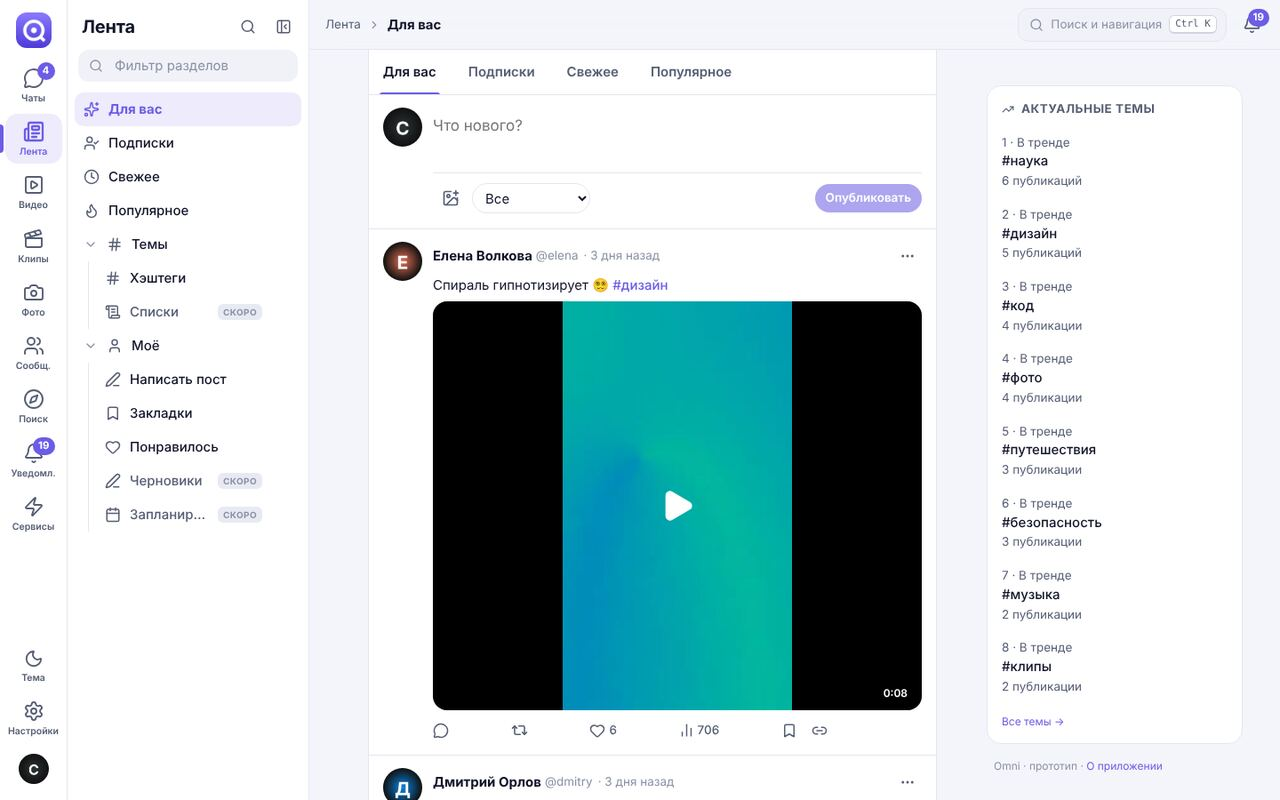
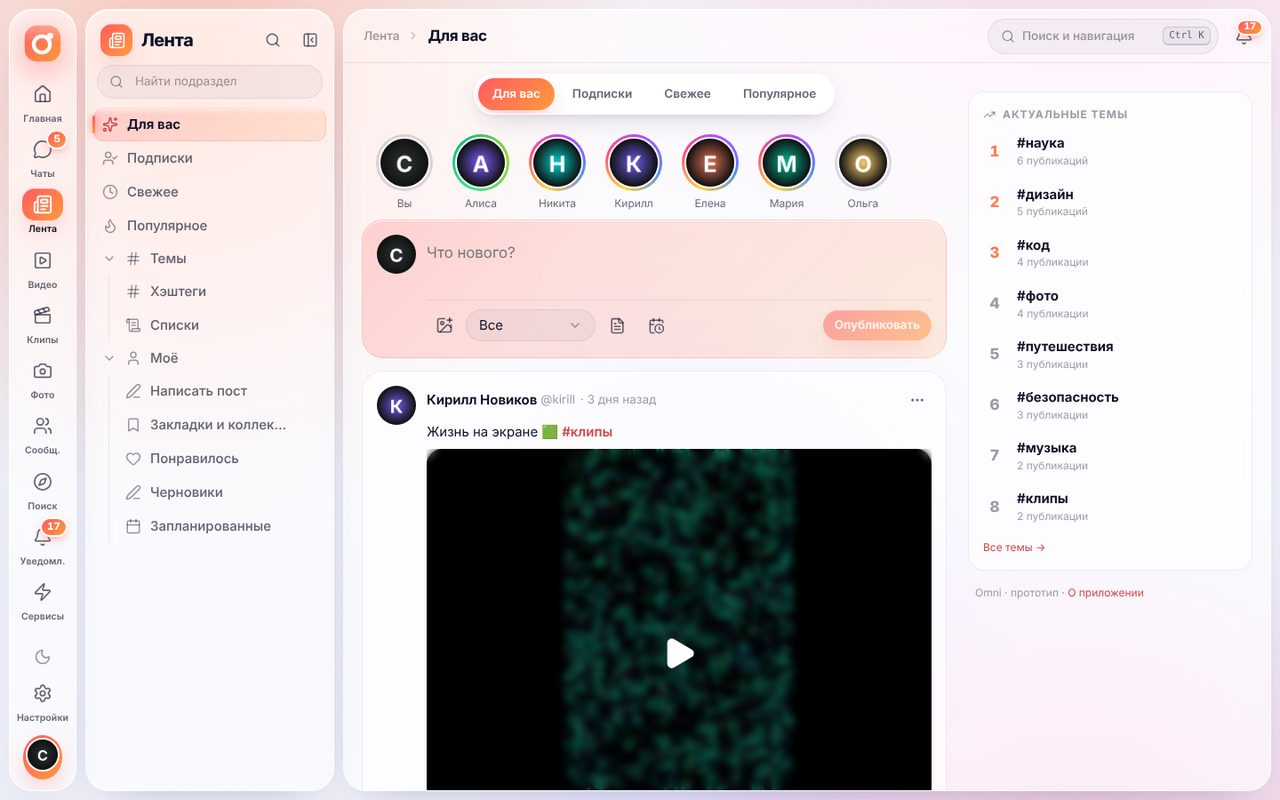
Документация: возможности, звонки и соцфункции в архитектуре и безопасности, дорожная карта, новые скриншоты, настройки TURN
Claude-Session: https://claude.ai/code/session_01Hb1m9i61LejQRpqaXXdBam

diff --git a/docs/ARCHITECTURE.md b/docs/ARCHITECTURE.md
@@ -35,26 +35,35 @@
 | `mail` | отправка писем (Brevo/Resend по HTTPS, SMTP, тестовый ящик в разработке), HTML-шаблоны |
 | `users` | профили, подписки и заявки, блокировки, скрытие, настройки приватности и уведомлений |
 | `policy` | централизованная авторизация |
-| `chats` | личные, группы, каналы, секретные, «Избранное»; сообщения с монотонным `seq`, реакции, пересылка, закрепы, прочтение, таймеры самоуничтожения |
+| `chats` | личные, группы, каналы, секретные, «Избранное»; сообщения с монотонным `seq`, реакции, пересылка, закрепы, прочтение, таймеры самоуничтожения; голосовые, кружки, опросы, упоминания, медленный режим, автоудаление; свои папки (`folders`), пригласительные ссылки (`invites`), отложенные сообщения (`scheduled`), поиск по сообщениям (FTS5) |
+| `calls` | звонки 1:1: состояние в БД (вызов → разговор → завершён/пропущен), сигнализация WebRTC через WebSocket только к принявшему сеансу, таймаут вызова, сообщение о звонке в чате |
 | `keys` | каталог публичных ключей устройств (E2E) |
-| `posts` | публикации всех видов, ленты и ранжирование, комментарии, лайки, закладки, история, плейлисты, хэштеги, студия |
+| `posts` | публикации всех видов, ленты и ранжирование, комментарии, лайки и «кто оценил», закладки, история, плейлисты, хэштеги, студия, закреп в профиле, уведомления подписчикам с «колокольчиком» |
+| `social` | черновики и отложенные публикации, списки авторов, коллекции закладок, скрытые слова (фильтр лент через FTS5) |
 | `media` | загрузка (проверка типа по содержимому, лимиты), подписанные ссылки, раздача с Range |
-| `stories`, `communities`, `notifications`, `search`, `reports` | соответствующие функции |
-| `realtime` | WebSocket-хаб, присутствие, «печатает…» |
+| `stories` | истории (аудитория «все»/«близкие друзья»), реакции, просмотры, архив, «Актуальное» |
+| `communities`, `notifications`, `search`, `reports` | соответствующие функции |
+| `realtime` | WebSocket-хаб, присутствие, «печатает…/записывает…», доставка сигналов звонка в конкретный сеанс |
 
 **Данные.** SQLite через встроенный `node:sqlite`: WAL, внешние ключи, FTS5 для поиска. Идентификаторы — ULID (сортируются по времени, не угадываются). Время — миллисекунды UTC. Миграции — в `db/migrations.ts`, применяются при старте; опубликованные миграции не редактируются, только добавляются новые. Весь SQL параметризован; обёртка `Db` отбрасывает лишние параметры и требует отсутствующие.
 
 **Доставка сообщений.** Сообщение сохраняется в транзакции, получая следующий `seq` чата, затем рассылается участникам через `RealtimeHub`. Отправка идемпотентна: повтор с тем же `clientId` (плохая мобильная сеть) вернёт уже созданное сообщение. После переподключения клиент перезапрашивает список чатов и открытую переписку.
 
-**Фоновые задачи** (`jobs.ts`): удаление сообщений с истёкшим таймером, очистка сеансов, историй и незавершённых входов, `PRAGMA optimize`.
+**Миграции.** `001_init` — базовая схема; `002_email` — почта, коды и знакомство; `003_messenger` — голосовые, опросы, звонки, папки, приглашения, отложенные сообщения, поиск по сообщениям; `004_social` — аудитория и реакции историй, «Близкие друзья», «Актуальное», статус/ссылки/закреп профиля, черновики, списки, коллекции, скрытые слова, «колокольчик».
+
+**Фоновые задачи** (`jobs.ts`): удаление сообщений с истёкшим таймером, отправка отложенных сообщений (каждые 10 с) и публикация отложенных постов (каждые 30 с), очистка сеансов, удалённых историй, кодов из писем и незавершённых входов, `PRAGMA optimize`.
 
 ## Клиент (`apps/web`)
 
 - `app/` — оболочка (`layout/`), реестр навигации, маршруты (каждый модуль — отдельный чанк), сессия, обработка событий реального времени.
-- `features/*` — модули разделов. Модуль не импортирует внутренности другого модуля, кроме общих компонентов публикаций (`features/posts`).
+- `features/*` — модули разделов: `home` (сводка), `chats`, `calls` (экран звонка и история), `stories`, `feed`, `posts`, `social` (черновики, списки, коллекции, скрытые слова), `video`, `shorts`, `photos`, `communities`, `explore`, `notifications`, `profile`, `settings`, `onboarding`. Модули используют друг друга только через публичные компоненты (полоса историй, карточка поста, окна выбора).
 - `shared/` — API-клиент (CSRF, ошибки, загрузка с прогрессом), UI-кит, хуки, сторы, E2E-криптография, подготовка медиа (сжатие фото с удалением EXIF, обложки видео).
 
-**Состояние.** Серверные данные — TanStack Query; оптимистичные обновления (лайки, отправка сообщений) сразу отражаются во всех закэшированных местах и откатываются при ошибке. Локальные настройки (тема, избранные разделы, код-пароль) — Zustand с `persist`.
+**Состояние.** Серверные данные — TanStack Query; оптимистичные обновления (лайки, отправка сообщений, реакции на истории) сразу отражаются во всех закэшированных местах и откатываются при ошибке. Настройки устройства (тема, палитра, шрифт, скругления, обои, звуки, «Не беспокоить», стартовая страница, код-пароль) — Zustand с `persist`; визуальные применяются атрибутами `data-*` на `<html>`, которые переопределяют CSS-переменные из `styles/tokens.css`.
+
+**Звонки.** `shared/calls/engine.ts` — конечный автомат звонка (исходящий → входящий → соединение → разговор → завершён) поверх `RTCPeerConnection`; экран звонка смонтирован в оболочке и живёт поверх любых страниц.
+
+**Звуки.** Короткие сигналы синтезируются WebAudio (`shared/lib/sounds.ts`) — без аудиофайлов; учитывают громкость, тихие часы и системные уведомления при скрытой вкладке.
 
 **Мобильность.** Брейкпоинты: телефон (< 768 px) — нижние вкладки и шторка; планшет — рельс + выезжающее дерево; десктоп — рельс + дерево + контент (+ инфо-панель чата на широких экранах). Учитываются `safe-area`, `100dvh`, шрифт ≥ 16 px в полях ввода на iOS, длинное нажатие вместо правого клика. Service Worker кэширует только оболочку приложения — личные данные API в общий кэш не попадают.
 

diff --git a/docs/SECURITY.md b/docs/SECURITY.md
@@ -37,6 +37,9 @@
 - Блокировка скрывает контент в обе стороны и запрещает сообщения, подписки, комментарии; «скрытие» убирает автора из лент без его ведома.
 - Все решения принимает `Policy` — одна точка, которую покрывают тесты.
 - **Фото сжимаются на устройстве с удалением EXIF**, включая GPS-координаты.
+- Истории «для близких друзей» отсекаются на сервере (`Policy.canViewStory` и SQL-условие в ленте, профиле и «Актуальном»): посторонний получает 404, а не пустую картинку. Истёкшие истории доступны только автору и через его «Актуальное».
+- Списки авторов закрытые по умолчанию; коллекции, черновики и скрытые слова видит только владелец. Скрытые слова передаются в FTS5 только как параметр запроса.
+- Пригласительные ссылки — случайные токены, с необязательным сроком и лимитом вступлений, отзываются администратором.
 - Экспорт своих данных и удаление аккаунта с очисткой личных данных.
 
 ## Файлы
@@ -45,6 +48,13 @@
 - Лимиты размера по типу проверяются потоково, во время загрузки.
 - Файлы хранятся под случайными именами вне веб-корня; ссылки подписаны HMAC и истекают; ответы отдаются с `nosniff`, `CSP: sandbox`, `CORP: same-origin`; архивы и документы — только как вложения.
 - Прикрепить к публикации или сообщению можно только свой файл.
+
+## Звонки
+
+- Медиа идёт напрямую между устройствами по WebRTC и всегда шифруется **DTLS-SRTP**; сервер видит только сигнализацию (SDP и ICE-кандидаты).
+- Сигналы пересылаются только участникам звонка и только в тот сеанс, который принял звонок (другие вкладки и устройства собеседника их не получают); размер сообщения WebSocket ограничен.
+- Позвонить можно только в личный или секретный чат; заблокировавший вас пользователь не получит вызов. Звонок без ответа завершается через 45 секунд, а при закрытии сеанса — сразу.
+- STUN/TURN задаются переменными окружения (`STUN_URLS`, `TURN_URLS`, `TURN_USERNAME`, `TURN_CREDENTIAL`) и отдаются только авторизованным пользователям.
 
 ## Сквозное шифрование (секретные чаты)
 

diff --git a/docs/ROADMAP.md b/docs/ROADMAP.md
@@ -4,21 +4,21 @@
 
 ## Ближайшее: мелочи, которые делают удобно
 
-- [ ] Голосовые сообщения и кружочки (видеосообщения)
+- [x] Голосовые сообщения и кружочки (видеосообщения)
 - [ ] Стикеры, GIF-поиск, свои эмодзи 🧭
-- [ ] Черновики и отложенные посты 🧭, треды (серии постов)
-- [ ] Свои папки чатов с правилами 🧭
-- [ ] Упоминания @ в группах с уведомлениями, ответы-ветки в группах
+- [x] Черновики и отложенные посты; треды (серии постов) — впереди
+- [x] Свои папки чатов с правилами
+- [x] Упоминания @ в группах; ответы-ветки в группах — впереди
 - [ ] Предпросмотр ссылок (безопасный, через серверный прокси)
 - [ ] Прыжок к закреплённому/найденному сообщению в переписке
 - [ ] Редактирование аватаров групп, каналов и сообществ из интерфейса
-- [ ] Архив и «Актуальное» историй 🧭
-- [ ] Списки авторов в ленте 🧭
+- [x] Архив и «Актуальное» историй, «Близкие друзья», реакции, текстовые истории
+- [x] Списки авторов в ленте, коллекции закладок, скрытые слова
 
 ## Связь
 
-- [ ] Аудио- и видеозвонки на WebRTC со сквозным шифрованием 🧭
-- [ ] Групповые конференции, демонстрация экрана
+- [x] Аудио- и видеозвонки 1:1 на WebRTC (DTLS-SRTP)
+- [ ] Групповые конференции, демонстрация экрана 🧭
 - [ ] Прямые эфиры 🧭
 
 ## Безопасность и приватность
